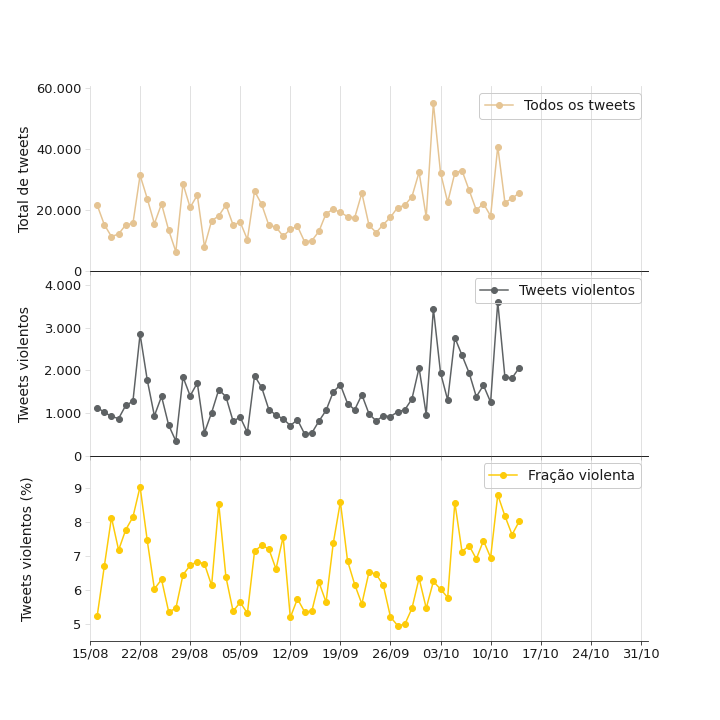
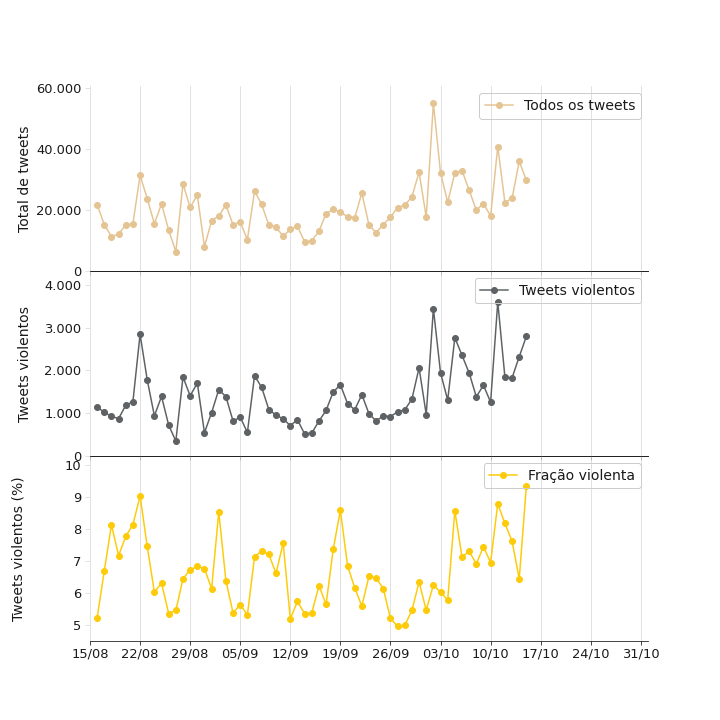
Auto-update webpage data >> 2022-10-16_04:03:36

diff --git a/assets/js/data.js b/assets/js/data.js
@@ -1,1 +1,1 @@
-data = '{"total_counts": 81406, "yesterday_counts": 2060, "time_series_plot": "../gitpage/assets/img/graficos/tweets_agressivos_por_dia_feminino.png", "last_update": "2022-10-15T04:03:28"}'
+data = '{"total_counts": 84465, "yesterday_counts": 2795, "time_series_plot": "../gitpage/assets/img/graficos/tweets_agressivos_por_dia_feminino.png", "last_update": "2022-10-16T04:03:36"}'
